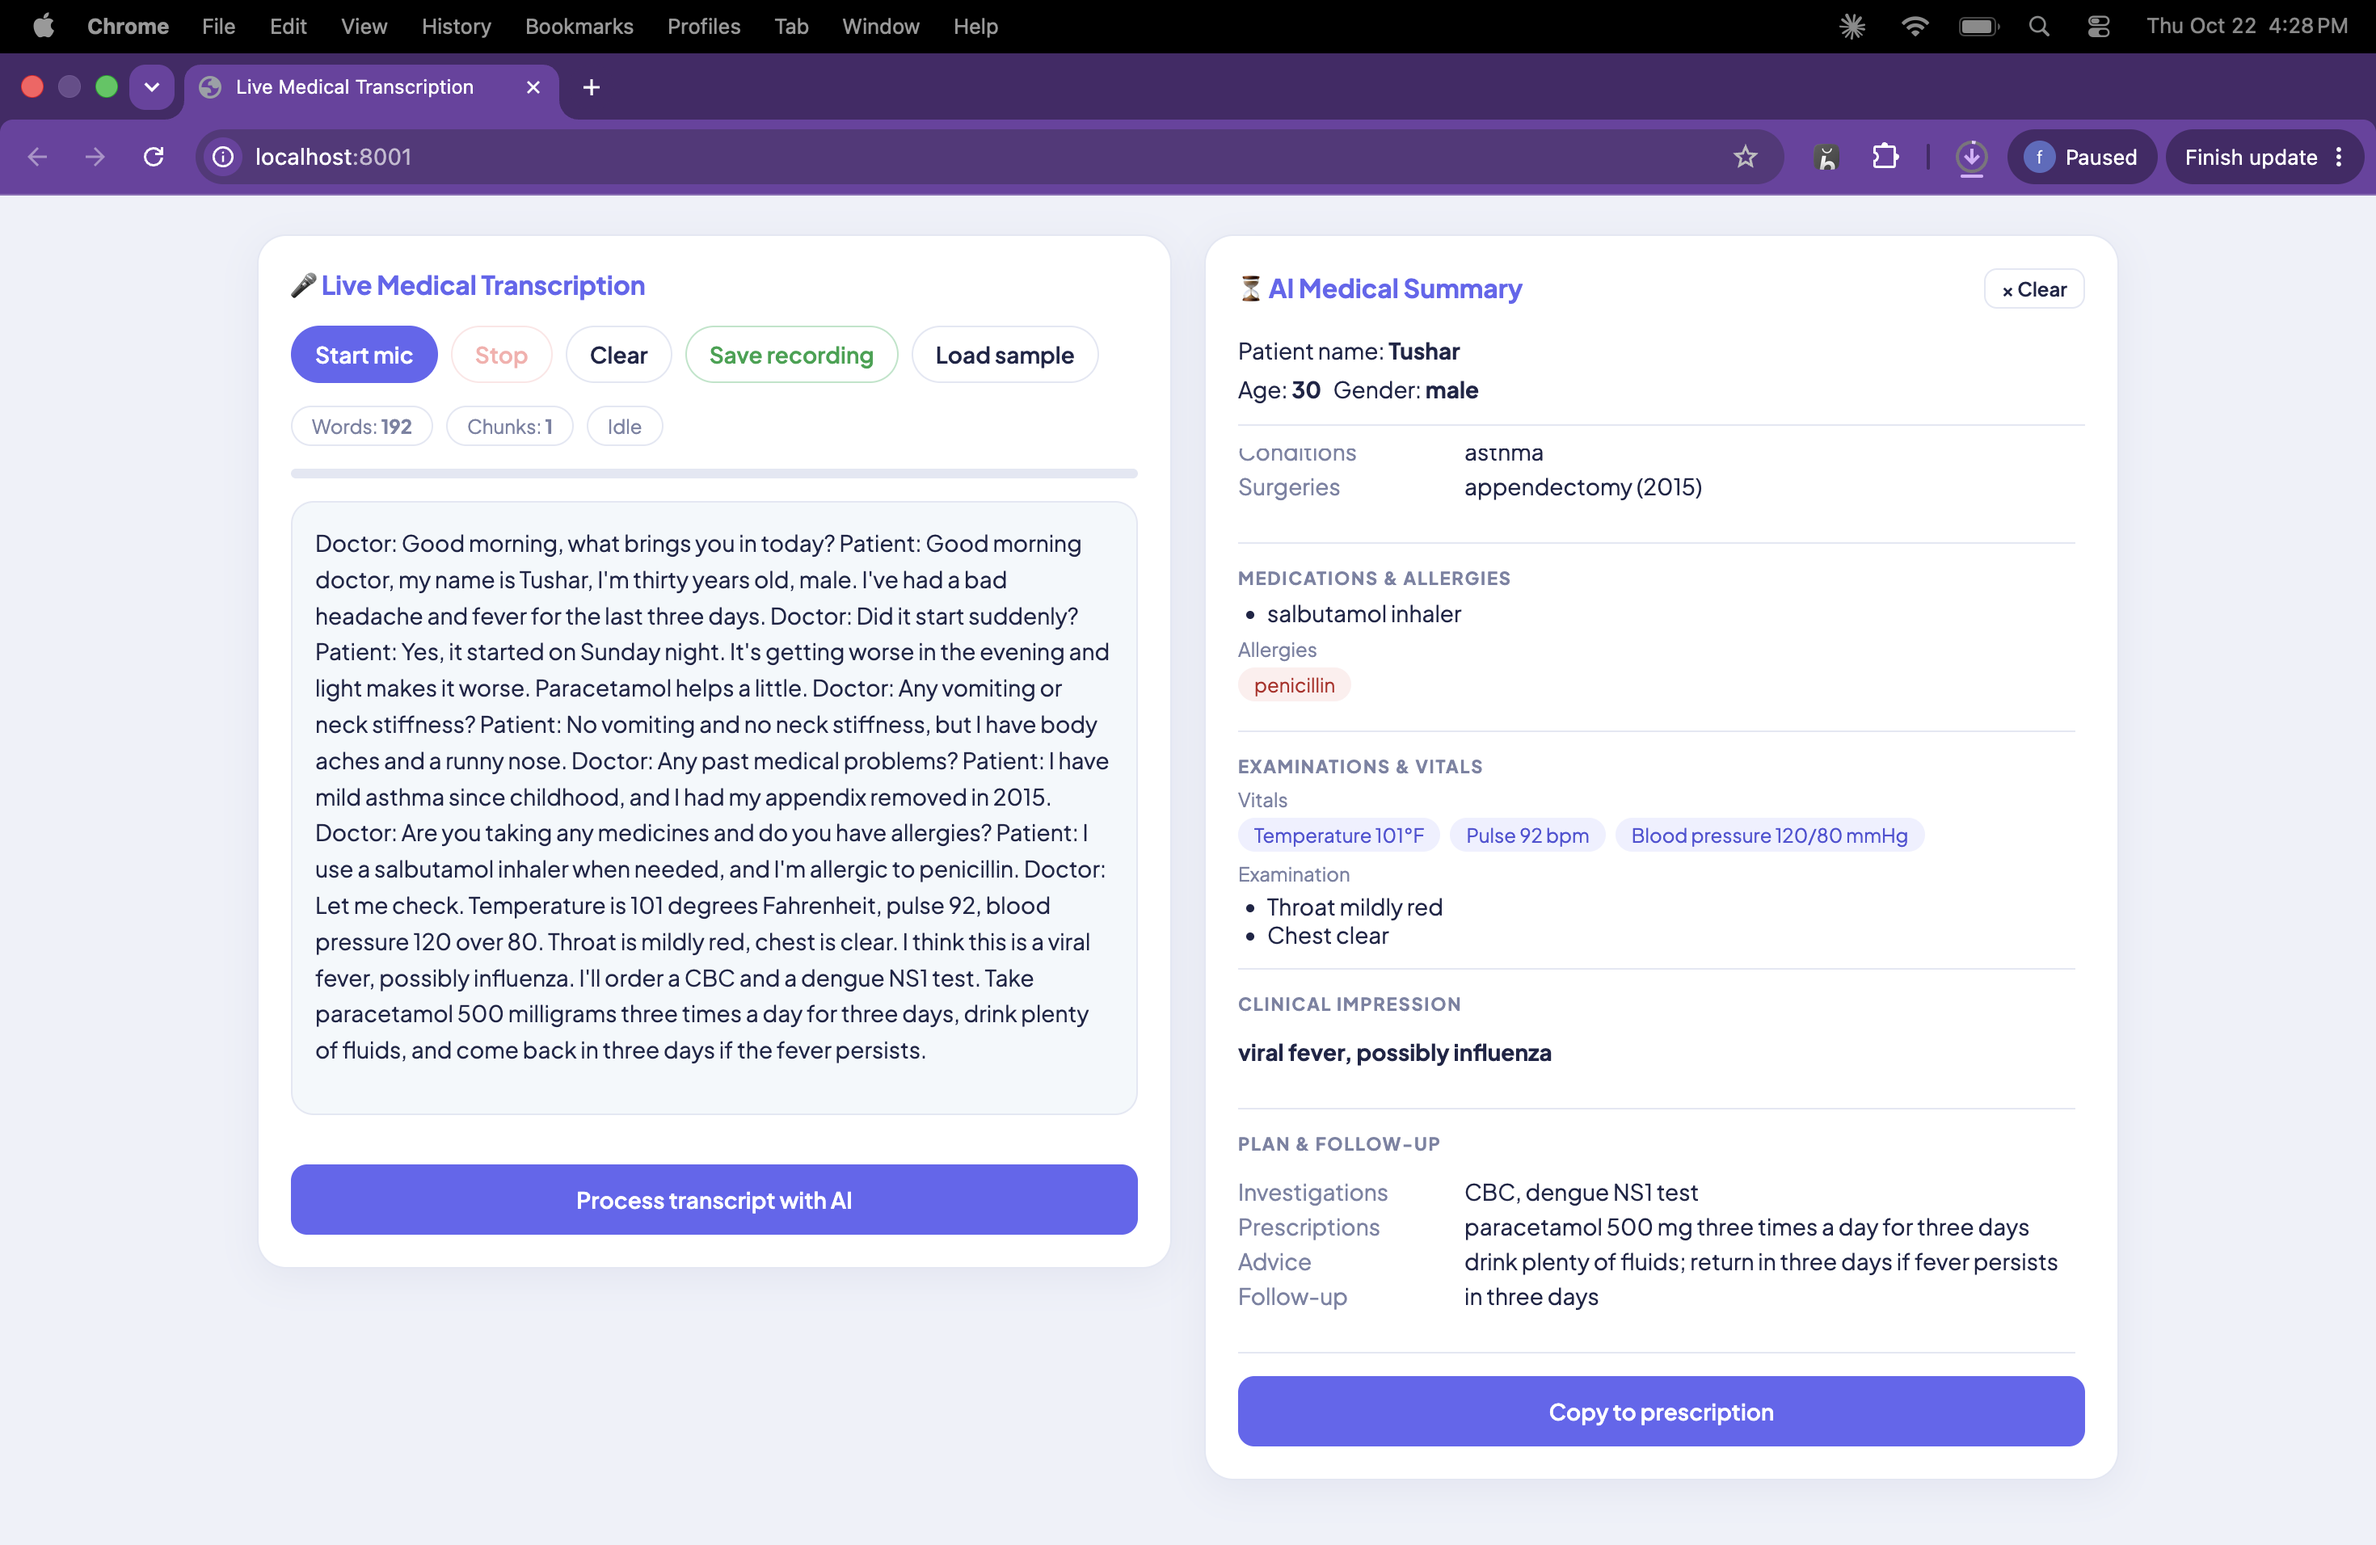
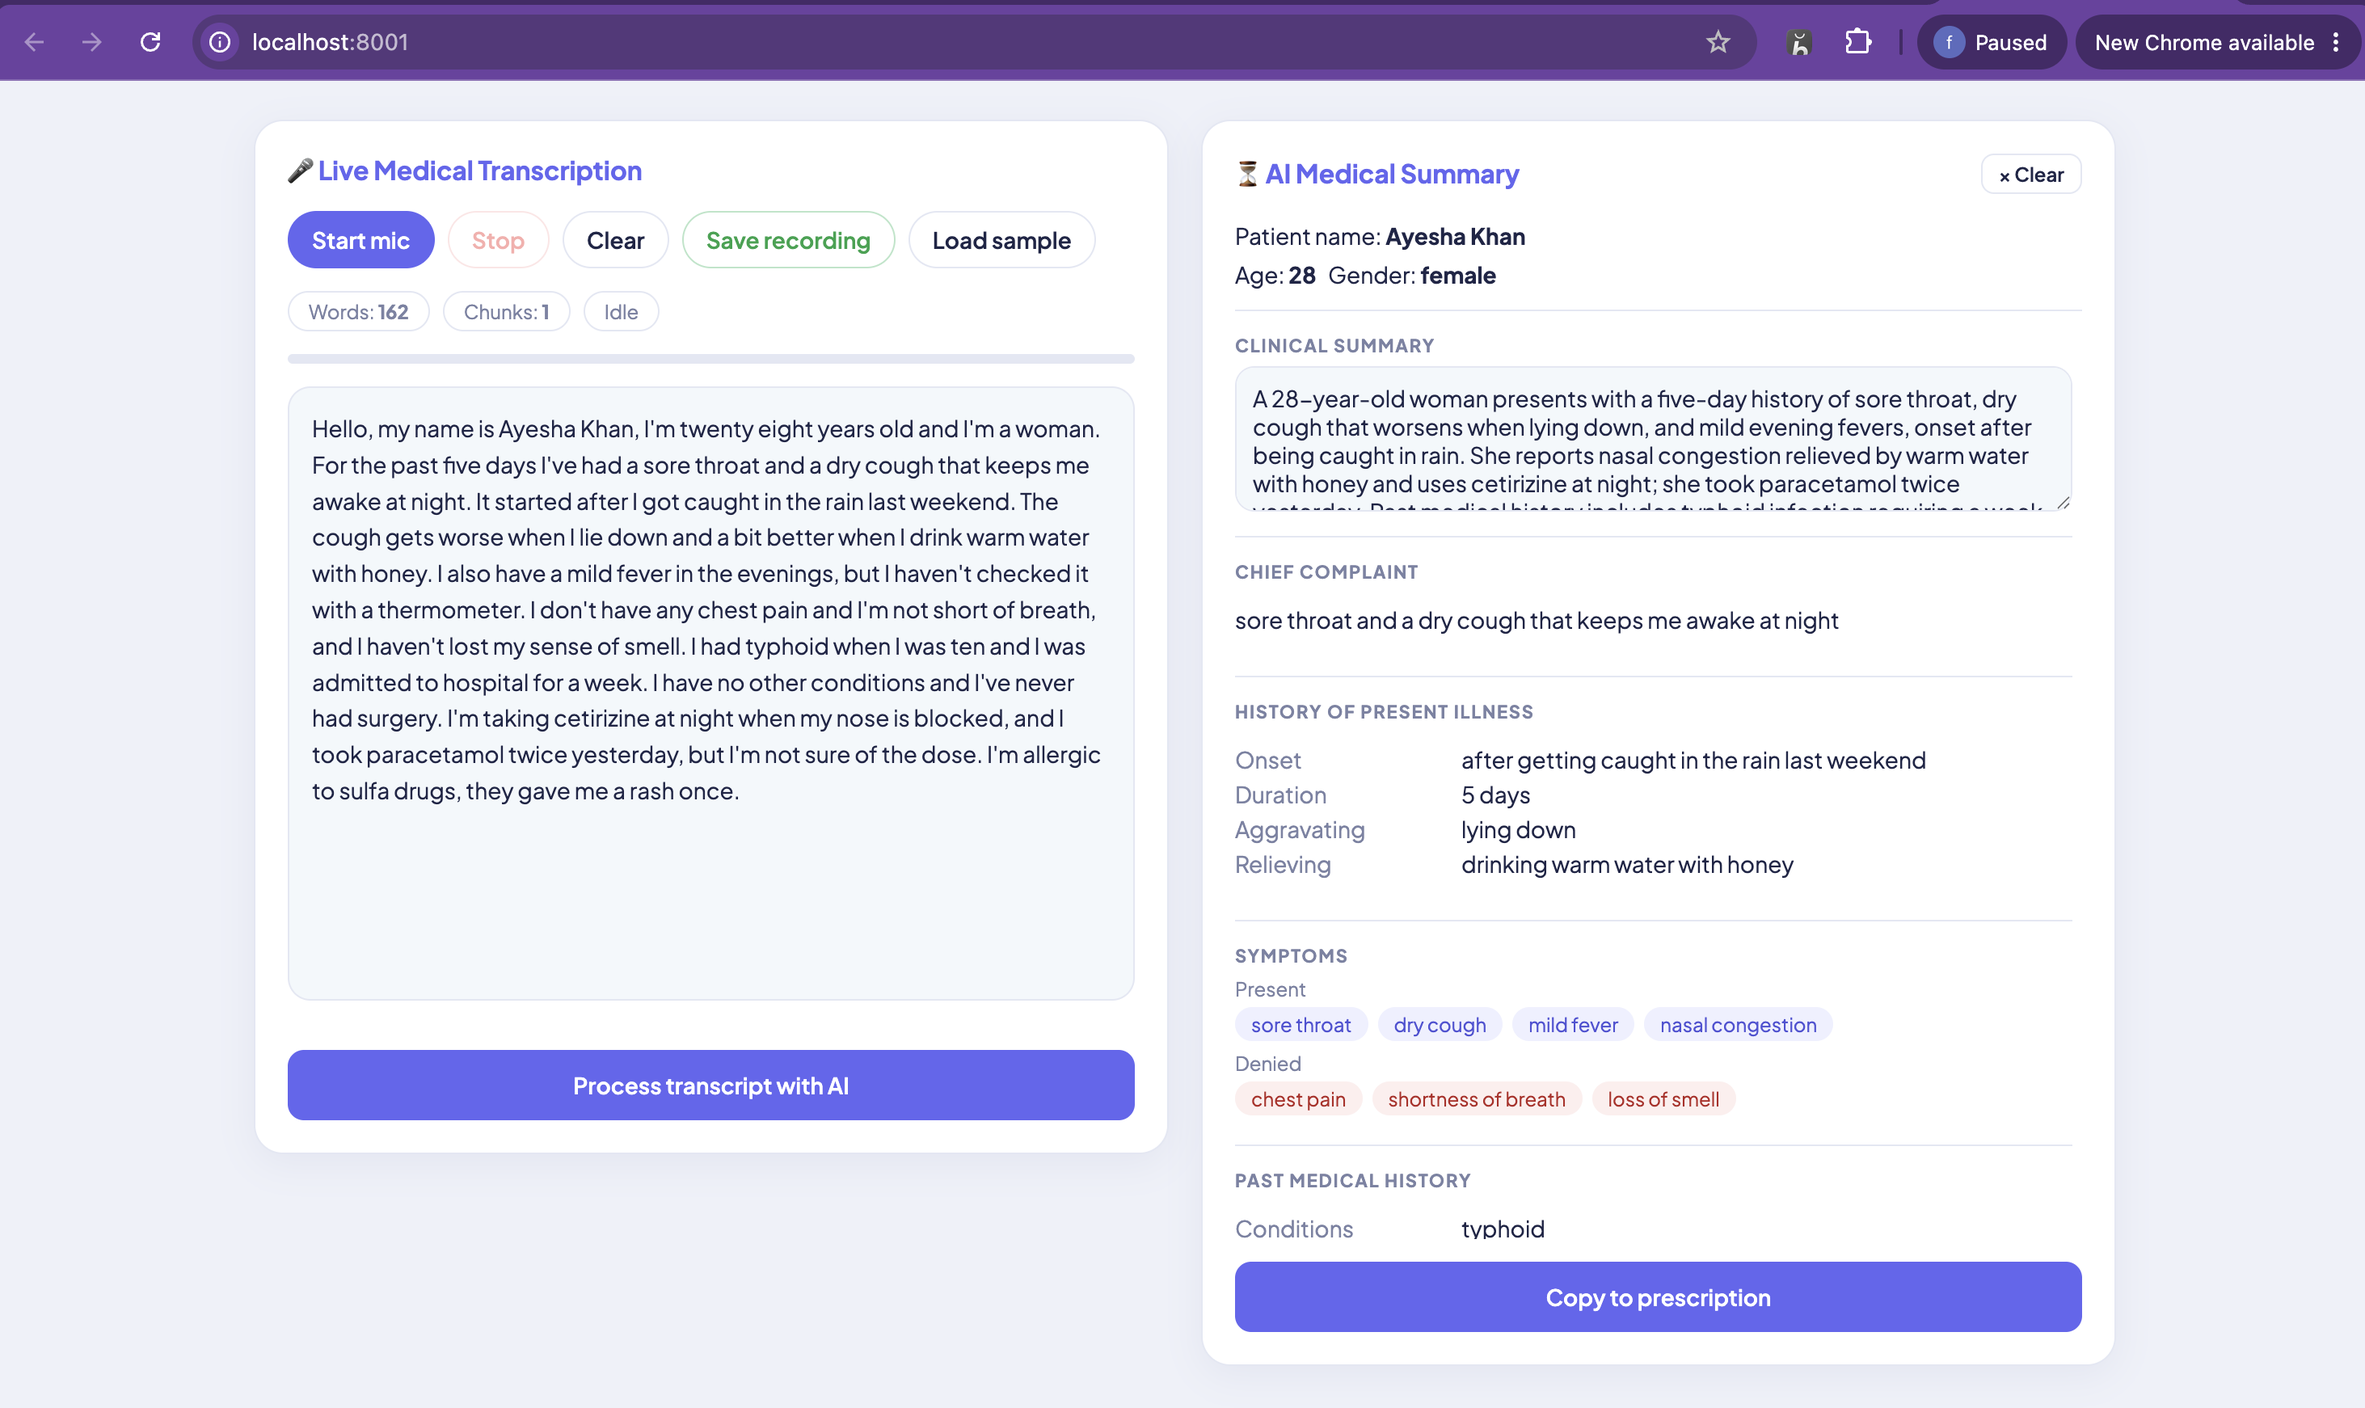
Add live transcription, update README

diff --git a/frontend/app.js b/frontend/app.js
@@ -1,5 +1,8 @@
 /* Live Medical Transcription - frontend
  * mic -> Silero VAD (browser) -> speech segment (WAV) -> /api/transcribe
+ * While you are still speaking, the audio so far is re-transcribed every ~1.2 s
+ * and shown as a grey "live" line, so text keeps appearing as you talk.
+ * When you pause, the final text replaces the live line.
  * full transcript -> /api/summarize -> structured summary panel
  */
 const $ = (id) => document.getElementById(id);
@@ -12,12 +15,30 @@ const state = {
   pending: 0,          // chunks still being transcribed
   summary: null,       // last structured summary
   processing: false,
+  // live (interim) transcription while the user is speaking
+  liveText: "",        // text shown in grey while speech is in progress
+  frames: [],          // audio frames of the current utterance
+  preBuf: [],          // last few frames before speech starts (so words aren't clipped)
+  speaking: false,
+  liveTimer: null,
+  liveBusy: false,
+  utt: 0,              // utterance counter, used to drop stale live results
+  stream: null, ctx: null, proc: null,   // our own audio capture (feeds the live text)
 };
+const LIVE_EVERY_MS = 1200;
 
-const SAMPLE_TEXT = `Doctor: Good morning, what brings you in today? Patient: Good morning doctor, my name is Tushar, I'm thirty years old, male. I've had a bad headache and fever for the last three days. Doctor: Did it start suddenly? Patient: Yes, it started on Sunday night. It's getting worse in the evening and light makes it worse. Paracetamol helps a little. Doctor: Any vomiting or neck stiffness? Patient: No vomiting and no neck stiffness, but I have body aches and a runny nose. Doctor: Any past medical problems? Patient: I have mild asthma since childhood, and I had my appendix removed in 2015. Doctor: Are you taking any medicines and do you have allergies? Patient: I use a salbutamol inhaler when needed, and I'm allergic to penicillin. Doctor: Let me check. Temperature is 101 degrees Fahrenheit, pulse 92, blood pressure 120 over 80. Throat is mildly red, chest is clear. I think this is a viral fever, possibly influenza. I'll order a CBC and a dengue NS1 test. Take paracetamol 500 milligrams three times a day for three days, drink plenty of fluids, and come back in three days if the fever persists.`;
+// Sample consultation: the patient speaks alone (no doctor).
+const SAMPLE_TEXT = `Hello, my name is Ayesha Khan, I'm twenty eight years old and I'm a woman. For the past five days I've had a sore throat and a dry cough that keeps me awake at night. It started after I got caught in the rain last weekend. The cough gets worse when I lie down and a bit better when I drink warm water with honey. I also have a mild fever in the evenings, but I haven't checked it with a thermometer. I don't have any chest pain and I'm not short of breath, and I haven't lost my sense of smell. I had typhoid when I was ten and I was admitted to hospital for a week. I have no other conditions and I've never had surgery. I'm taking cetirizine at night when my nose is blocked, and I took paracetamol twice yesterday, but I'm not sure of the dose. I'm allergic to sulfa drugs, they gave me a rash once.`;
 
 // --------------------------------------------------------- helpers ----
-const fullText = () => state.segments.join(" ").trim();
+async function errorText(res) {
+  // Server errors may be JSON ({detail}) or plain text ("Internal Server Error").
+  const body = await res.text();
+  try { return JSON.parse(body).detail || res.statusText; }
+  catch { return `${res.status} ${body || res.statusText} (see the uvicorn terminal for details)`; }
+}
+const fullText = () => state.segments.filter(Boolean).join(" ").trim();
+const finalSegments = () => state.segments.filter(Boolean);
 const wordCount = (t) => (t ? t.split(/\s+/).length : 0);
 
 function setStatus(label, st) {
@@ -36,16 +57,19 @@ const list = (a) => (a && a.length ? a : []);
 function render() {
   // transcript box
   const box = $("transcript");
-  if (!state.segments.length && !state.pending) {
-    box.innerHTML = '<p class="placeholder">Ready. Click Start mic and speak naturally. Voice activity detection will split your speech into chunks automatically.</p>';
+  const finals = finalSegments();
+  if (!finals.length && !state.pending && !state.liveText) {
+    box.innerHTML = '<p class="placeholder">Ready. Click Start mic and speak naturally. Your words appear live as you talk; a pause finalises each chunk.</p>';
   } else {
     box.innerHTML =
-      state.segments.map((s) => `<p>${esc(s)}</p>`).join("") +
-      (state.pending ? '<p class="pending">Transcribing…</p>' : "");
+      finals.map((t) => `<p>${esc(t)}</p>`).join("") +
+      (state.liveText
+        ? `<p class="pending">${esc(state.liveText)} …</p>`
+        : state.pending ? '<p class="pending">Transcribing…</p>' : "");
     box.scrollTop = box.scrollHeight;
   }
   $("words").textContent = wordCount(fullText());
-  $("chunks").textContent = state.segments.length;
+  $("chunks").textContent = finalSegments().length;
 
   // buttons
   $("btn-start").disabled = state.recording;
@@ -60,16 +84,30 @@ async function startMic() {
   showError("");
   try {
     setStatus("Loading VAD…", "working");
+    await startCapture();
     state.micVad = await vad.MicVAD.new({
       baseAssetPath: "https://cdn.jsdelivr.net/npm/@ricky0123/vad-web@0.0.29/dist/",
       onnxWASMBasePath: "https://cdn.jsdelivr.net/npm/onnxruntime-web@1.22.0/dist/",
-      onSpeechStart: () => setStatus("Hearing speech", "speech"),
+      redemptionMs: 900,      // pause length that ends a chunk (shorter = chunks finalise sooner)
+      preSpeechPadMs: 500,
+      onSpeechStart: () => {
+        setStatus("Hearing speech", "speech");
+        state.speaking = true;
+        state.utt++;
+        state.frames = state.preBuf.slice();
+        clearInterval(state.liveTimer);
+        state.liveTimer = setInterval(sendInterim, LIVE_EVERY_MS);
+      },
       onFrameProcessed: (probs) => {
         $("level-bar").style.width = Math.round(probs.isSpeech * 100) + "%";
       },
-      onVADMisfire: () => setStatus("Listening…", "listening"),
+      onVADMisfire: () => {
+        setStatus("Listening…", "listening");
+        endLive(true);
+      },
       onSpeechEnd: (audio) => {
         setStatus("Listening…", "listening");
+        endLive(false);          // live text stays on screen until the final text arrives
         sendSegment(audio);
       },
     });
@@ -89,30 +127,99 @@ async function startMic() {
 }
 
 function stopMic() {
+  stopCapture();
   if (state.micVad) { state.micVad.pause(); state.micVad.destroy?.(); state.micVad = null; }
   state.recording = false;
+  endLive(true);
+  state.preBuf = [];
   $("level-bar").style.width = "0";
   setStatus("Idle", "idle");
   render();
 }
 
-async function sendSegment(float32Audio) {
-  // Only speech segments reach this point, so silence/noise never hits the ASR.
+// Our own 16 kHz mic capture. It keeps the raw audio so we can show live text
+// while you are still speaking (the VAD alone only hands over audio after a pause).
+async function startCapture() {
+  state.stream = await navigator.mediaDevices.getUserMedia({
+    audio: { channelCount: 1, echoCancellation: true, noiseSuppression: true },
+  });
+  state.ctx = new AudioContext({ sampleRate: 16000 });
+  await state.ctx.resume();
+  const src = state.ctx.createMediaStreamSource(state.stream);
+  state.proc = state.ctx.createScriptProcessor(2048, 1, 1);   // ~128 ms per chunk
+  state.proc.onaudioprocess = (e) => {
+    const chunk = new Float32Array(e.inputBuffer.getChannelData(0));   // copy
+    if (state.speaking) state.frames.push(chunk);
+    else { state.preBuf.push(chunk); if (state.preBuf.length > 8) state.preBuf.shift(); }
+  };
+  src.connect(state.proc);
+  state.proc.connect(state.ctx.destination);   // needed for the callback to fire; output is silent
+}
+
+function stopCapture() {
+  try { state.proc && state.proc.disconnect(); } catch {}
+  try { state.stream && state.stream.getTracks().forEach((t) => t.stop()); } catch {}
+  try { state.ctx && state.ctx.close(); } catch {}
+  state.proc = state.stream = state.ctx = null;
+}
+
+function endLive(clearText) {
+  state.speaking = false;
+  state.utt++;                       // any in-flight live result is now stale
+  clearInterval(state.liveTimer);
+  state.liveTimer = null;
+  state.frames = [];
+  if (clearText) { state.liveText = ""; render(); }
+}
+
+function concatFrames(frames) {
+  const total = frames.reduce((n, f) => n + f.length, 0);
+  const out = new Float32Array(total);
+  let off = 0;
+  for (const f of frames) { out.set(f, off); off += f.length; }
+  return out;
+}
+
+function wavForm(float32Audio) {
   const wav = vad.utils.encodeWAV(float32Audio);        // 16 kHz mono WAV
   const form = new FormData();
   form.append("audio", new Blob([wav], { type: "audio/wav" }), "chunk.wav");
+  return form;
+}
 
-  const slot = state.segments.length + state.pending; // keep chunks in order
+// Live text: re-transcribe everything said so far in the current utterance.
+async function sendInterim() {
+  if (!state.speaking || state.liveBusy || state.frames.length < 5) return;
+  const myUtt = state.utt;
+  state.liveBusy = true;
+  try {
+    const res = await fetch("/api/transcribe", { method: "POST", body: wavForm(concatFrames(state.frames)) });
+    if (!res.ok) throw new Error(await errorText(res));
+    const { text } = await res.json();
+    if (text && myUtt === state.utt && state.speaking) { state.liveText = text; render(); }
+  } catch (err) {
+    console.warn("Live transcription skipped:", err.message);   // final text will still arrive
+  } finally {
+    state.liveBusy = false;
+  }
+}
+
+async function sendSegment(float32Audio) {
+  // Only speech segments reach this point, so silence/noise never hits the ASR.
+  const slot = state.segments.length;   // reserve a slot so chunks stay in order
+  state.segments.push("");
   state.pending++; render();
   try {
-    const res = await fetch("/api/transcribe", { method: "POST", body: form });
-    if (!res.ok) throw new Error((await res.json()).detail || res.statusText);
+    const res = await fetch("/api/transcribe", { method: "POST", body: wavForm(float32Audio) });
+    if (!res.ok) throw new Error(await errorText(res));
     const { text } = await res.json();
-    if (text) state.segments.push(text);
+    state.segments[slot] = text || "";
   } catch (err) {
     showError("Transcription failed: " + err.message + ". Is the backend running?");
   } finally {
-    state.pending--; render();
+    state.pending--;
+    if (!state.speaking) state.liveText = "";   // final text replaces the live line
+    render();
   }
 }
 
@@ -129,8 +236,8 @@ async function processTranscript() {
       headers: { "Content-Type": "application/json" },
       body: JSON.stringify({ text }),
     });
+    if (!res.ok) throw new Error(await errorText(res));
     const data = await res.json();
-    if (!res.ok) throw new Error(data.detail || res.statusText);
     state.summary = data;
     renderSummary(data);
   } catch (err) {
@@ -257,7 +364,7 @@ function saveRecording() {
 
 function clearAll() {
   if (state.recording) stopMic();
-  state.segments = []; state.pending = 0; showError(""); render();
+  state.segments = []; state.pending = 0; state.liveText = ""; showError(""); render();
 }
 
 // ------------------------------------------------------------ wiring ----

diff --git a/README.md b/README.md
@@ -4,7 +4,7 @@ A web app that listens to a doctor-patient consultation through the microphone,
 shows the transcript live, and turns the finished transcript into a structured
 clinical summary.
 
-> Add a screenshot or GIF of the app here: `![Demo](docs/demo.png)`
+![Live Medical Transcription Demo](docs/demo.png)
 
 ## What it does
 1. Captures live audio from the microphone.
@@ -97,7 +97,6 @@ Click **Load sample**, then **Process transcript with AI**.
 ## Troubleshooting
 | Problem | Fix |
 |---|---|
-| `Address already in use` | Use another port: `--port 8002` |
 | `model_not_found` from the LLM | Pick a model your key can use (see the curl command above) and update `LLM_MODEL` |
 | Summary fails on validation | Retry; the app already retries once and accepts numeric values |
 | Medical words misheard | Set `WHISPER_MODEL=small` (or `medium`) in `.env` |
@@ -108,8 +107,6 @@ Click **Load sample**, then **Process transcript with AI**.
 - Chunks are transcribed after each pause, so a phrase may be split across chunks.
 - Speaker roles (doctor vs patient) are inferred by the LLM, not detected from audio.
 - Summaries can contain mistakes, so a clinician must review every one.
-- This is a student project, not a medical device. Real clinical use would need
-  patient consent, data-protection compliance (e.g. DPDP / HIPAA) and security review.
 
 ## Privacy
 Audio is processed locally and is not stored. Only the transcript text is sent
